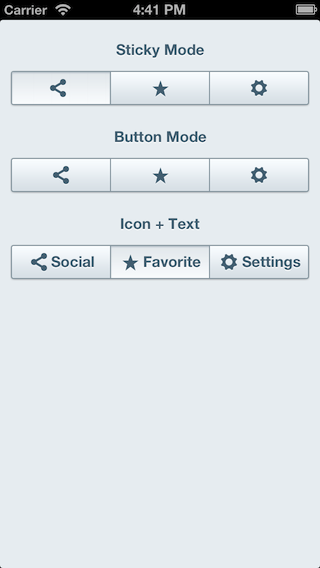
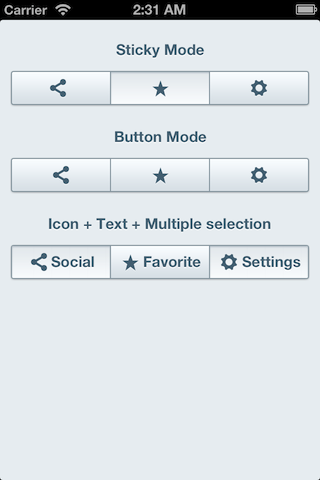
- Updated the descirption and screenshot

Changed region(s): [[0.0, 0.0, 1.0, 0.5938]]

diff --git a/README.md b/README.md
@@ -30,6 +30,7 @@ Next, import the header file wherever you want to use the tab bar controller:
 
 # Alloc and init the segmented control
 AKSegmentedControl *segmentedControl = [[AKSegmentedControl alloc] initWithFrame:aRect]
+[segmentedControl addTarget:self action:@selector(segmentedControlValueChanged:) forControlEvents:UIControlEventValueChanged];
 
 # Setting the delegate
 [segmentedControl setDelegate:self];
@@ -94,22 +95,7 @@ UIImage *buttonSettingsImageNormal = [UIImage imageNamed:@"settings-icon.png"];
 # Adding your control to the view
 [viewController.view addSubview:segmentedControl];
 ```
-
 Check the example project for further details.
-
-###Delegate Protocol
-
-Tell your class to implement the `AKSegmentedControlDelegate` protocol. For instance :
-
-``` objc
-@interface AKAppDelegate : UIResponder <UIApplicationDelegate, AKSegmentedControlDelegate>
-```
-
-Then implemented the optional protocol method in your implementation class to receive the segmented control inputs:
-
-``` objc
-- (void)segmentedViewController:(AKSegmentedControl *)segmentedControl touchedAtIndex:(NSUInteger)index;
-```
 
 ##Requirements
 - iOS >= 4.3
